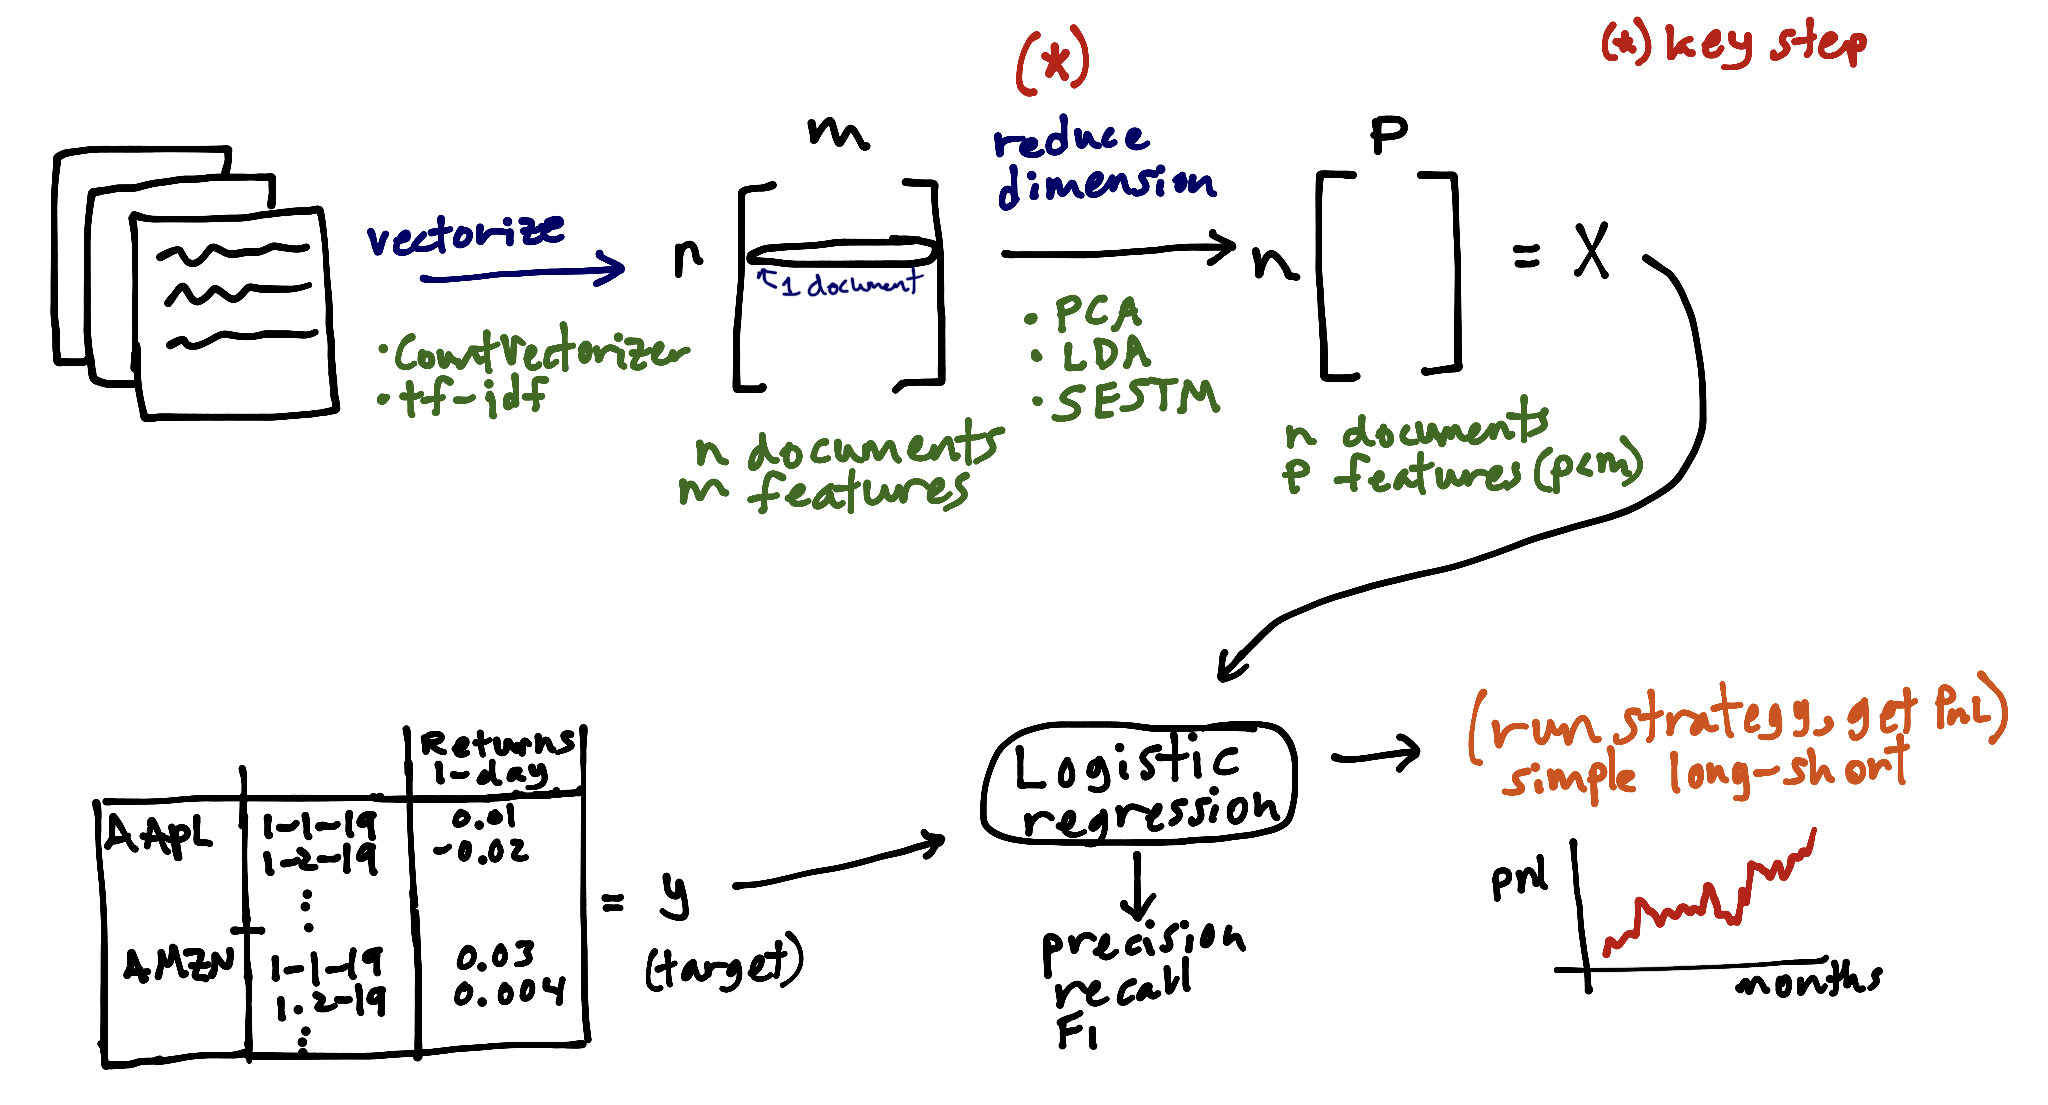
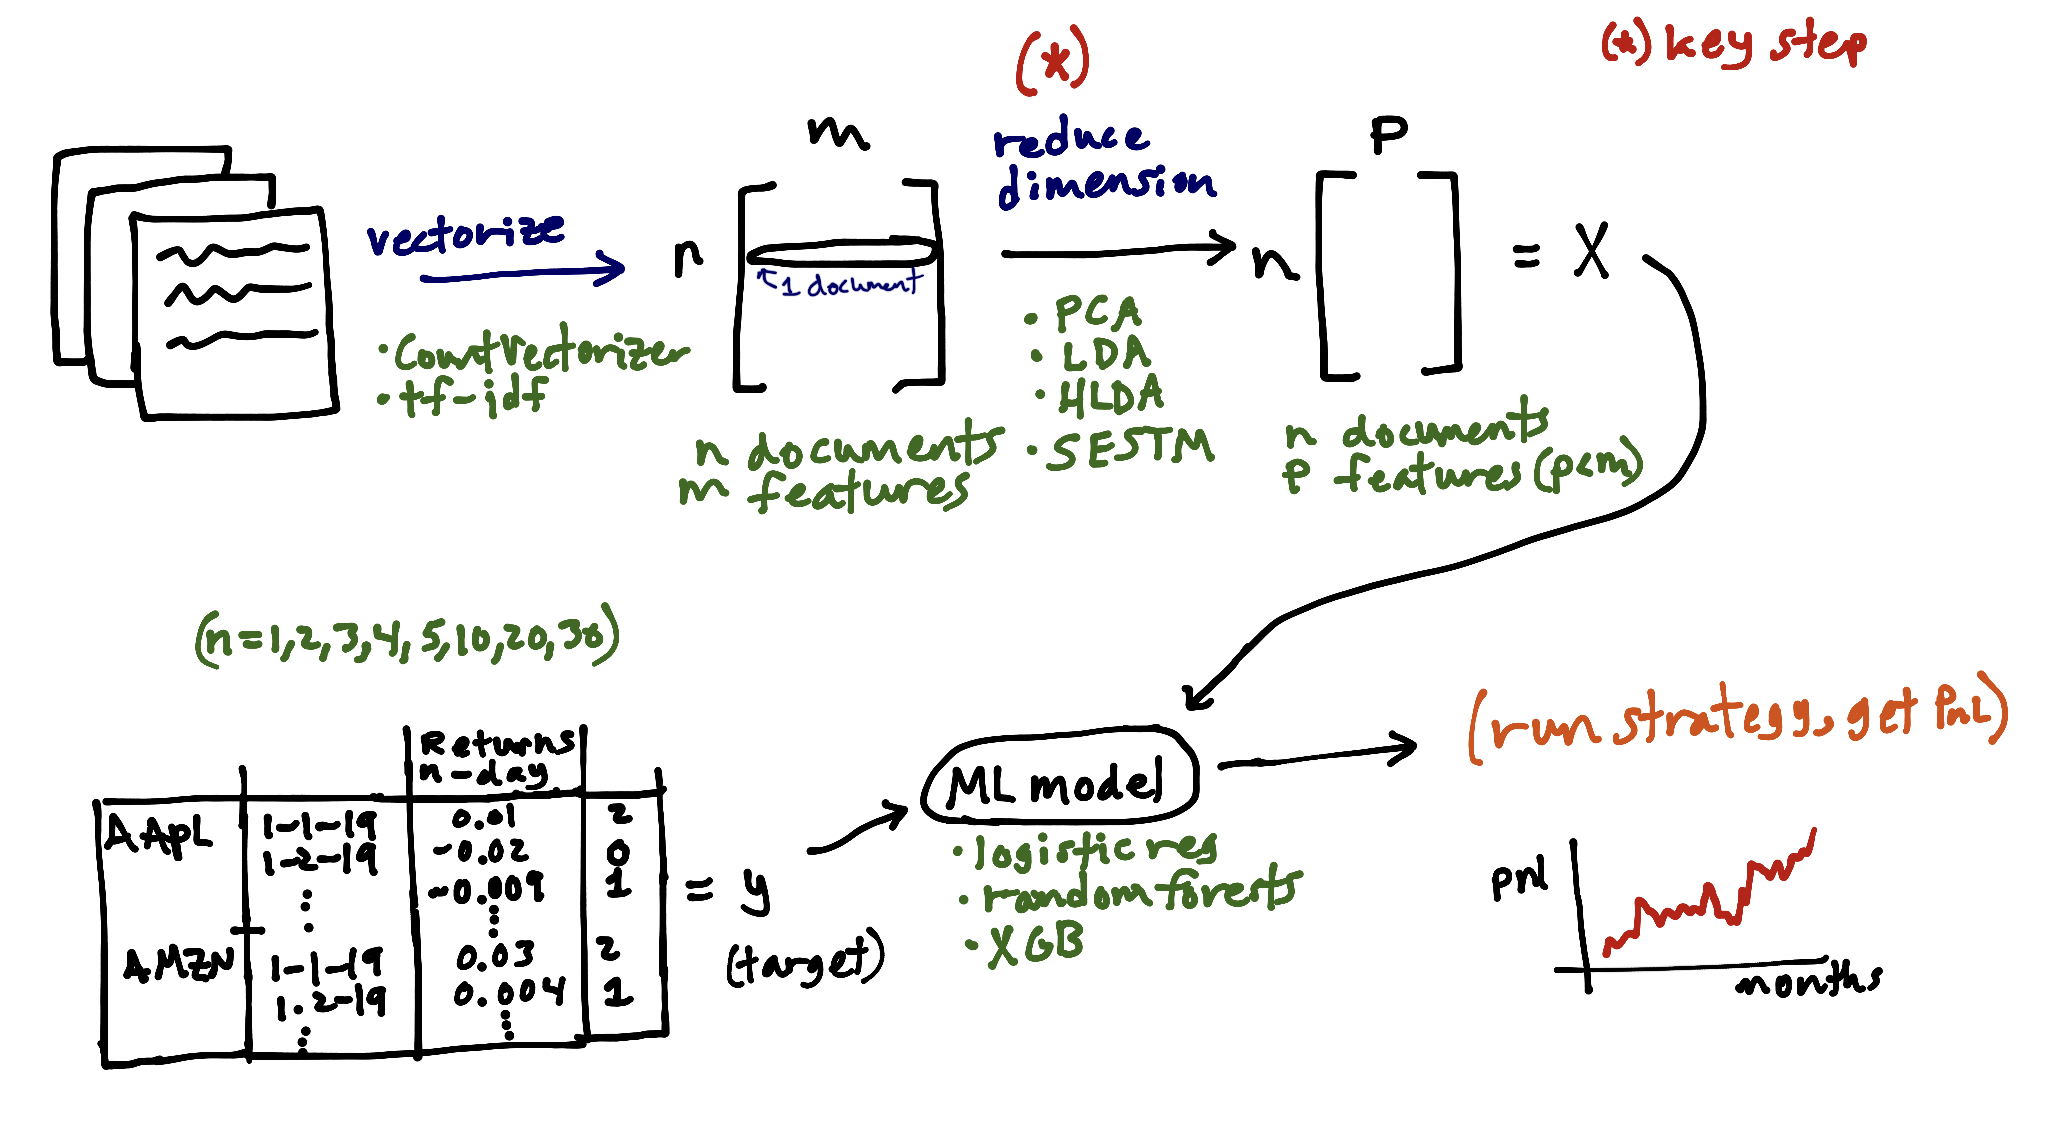
edit

diff --git a/README.md b/README.md
@@ -29,7 +29,7 @@ Let's show the most interesting part first. This plot compares cross-validation 
 ## Modeling
 Our strategy varies along a few dimensions.
 
-1. __Horizon__: 1, 2, 3, 4, 10, 20, 30
+1. __Horizon__: 1, 2, 3, 4, 5, 10, 20, 30
 2. __Model__: logistic regression, random forests, gradient boosting
 3. __Dimensionality reduction__: PCA, LDA, HLDA, SESTM [(Ke et. al. 2019)](references/Predicting_Returns_with_Text_Data.pdf)
 
